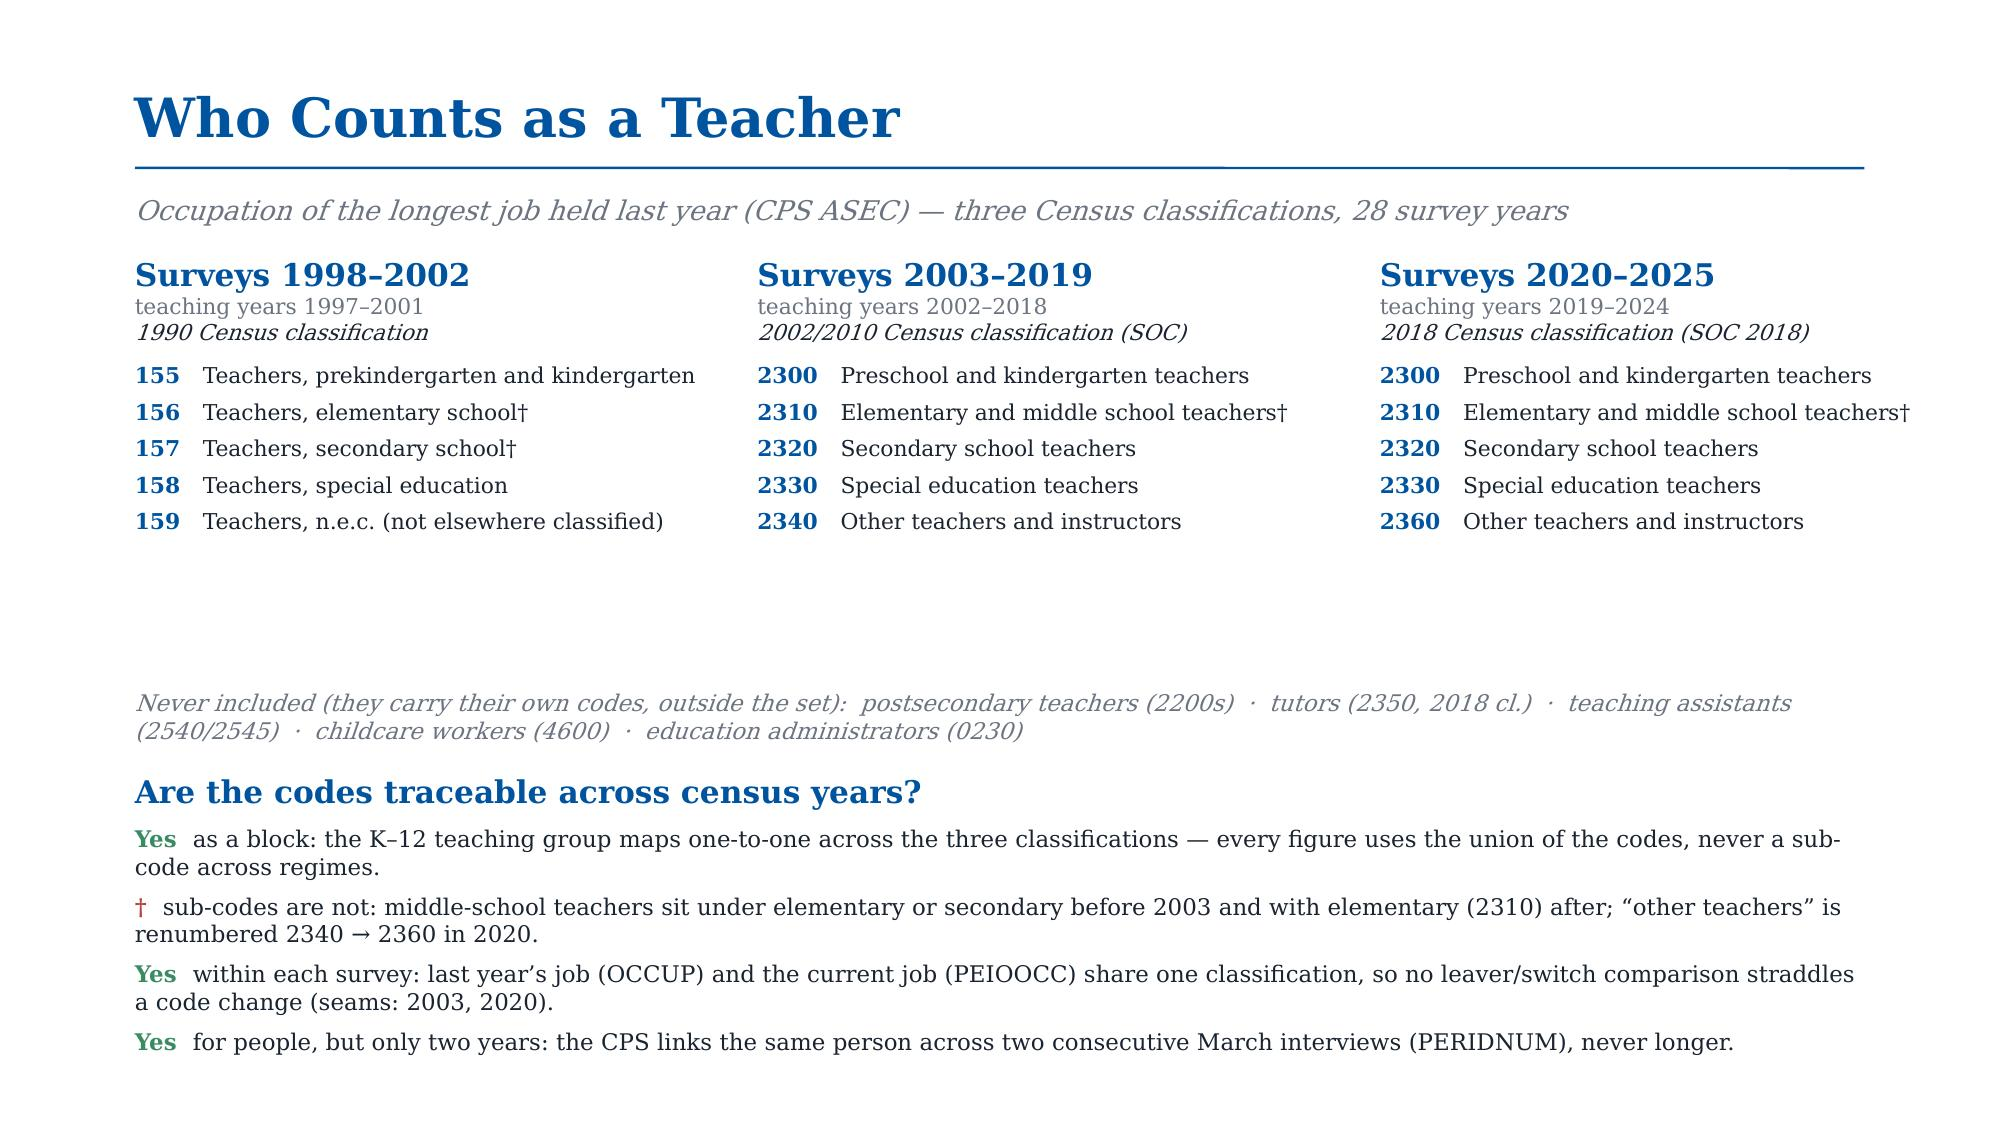
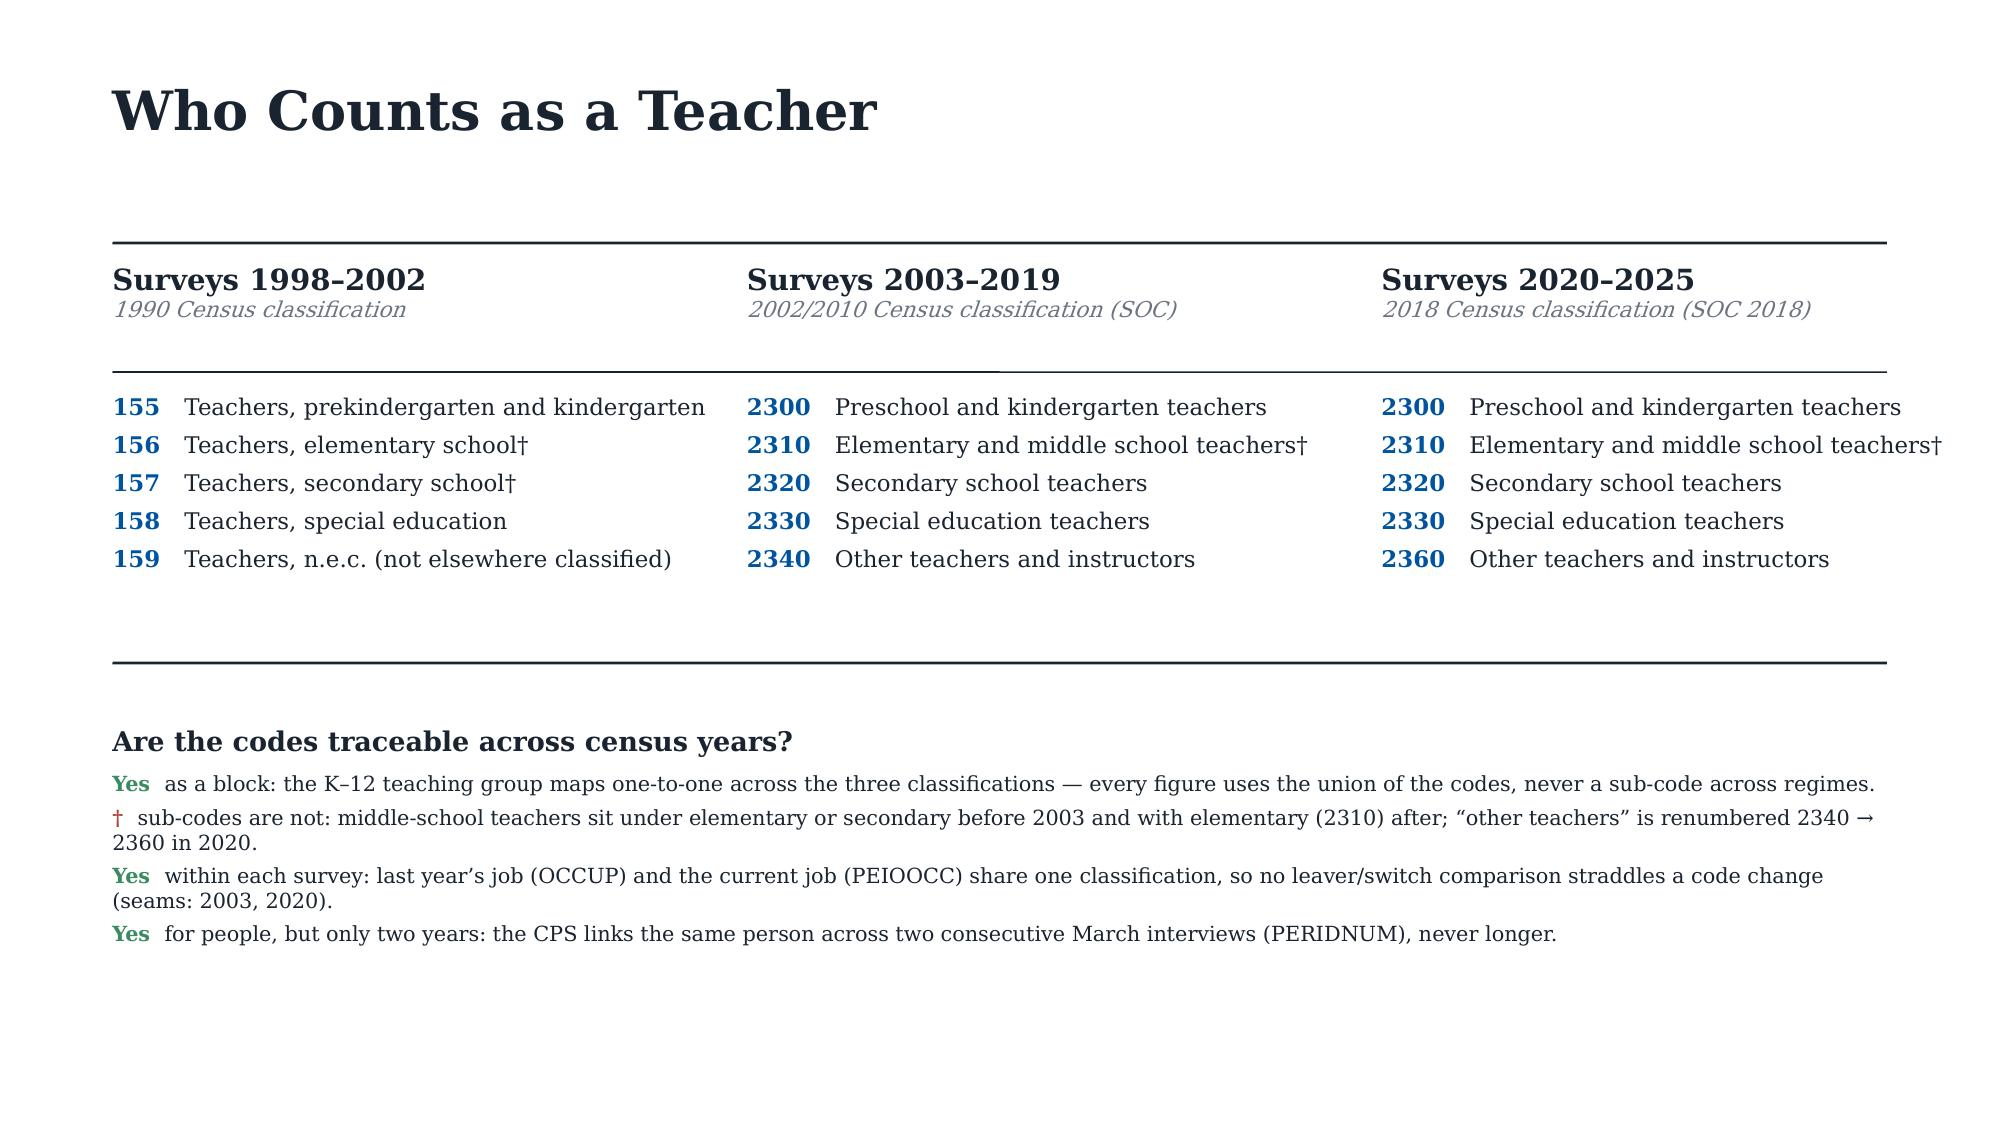
Codes slide: minimalist booktabs-style table
Claude-Session: https://claude.ai/code/session_01DNzQPDcr3zfLTraMHUHqUn

diff --git a/replication/deck_figures/codes_slide_deck.js b/replication/deck_figures/codes_slide_deck.js
@@ -1,75 +1,74 @@
-// Codes slide in the house deck style (Garamond, #00549F title + rule).
+// Codes slide, minimalist LaTeX-table (booktabs) style, Garamond.
 const pptxgen = require("pptxgenjs");
 const pres = new pptxgen();
 pres.layout = "LAYOUT_WIDE";
 
 const BLUE = "00549F", INK = "1A2430", MUT = "6B7480", RED = "B5443C", GREEN = "3A8A62";
 const GARA = "Garamond";
+const L = 0.75, W = 11.83;           // left margin, table width
 const s = pres.addSlide();
 s.background = { color: "FFFFFF" };
 
-// Title + rule, copied from the deck's geometry (x 0.9", y 0.5", rule at 1.12")
 s.addText("Who Counts as a Teacher", {
-  x: 0.9, y: 0.5, w: 11.5, h: 0.55, margin: 0, align: "left", valign: "middle",
-  fontFace: GARA, fontSize: 26, bold: true, color: BLUE,
+  x: L, y: 0.45, w: W, h: 0.55, margin: 0, align: "left", valign: "middle",
+  fontFace: GARA, fontSize: 26, bold: true, color: INK,
 });
-s.addShape(pres.ShapeType.line, {
-  x: 0.9, y: 1.12, w: 11.53, h: 0, line: { color: BLUE, width: 1.2 },
-});
-s.addText(
-  "Occupation of the longest job held last year (CPS ASEC) — three Census classifications, 28 survey years",
-  { x: 0.9, y: 1.22, w: 11.5, h: 0.35, margin: 0, align: "left",
-    fontFace: GARA, fontSize: 13, italic: true, color: MUT });
 
-const COLS = [
-  { x: 0.9,  yrs: "Surveys 1998–2002", cal: "teaching years 1997–2001",
-    cls: "1990 Census classification",
-    rows: [["155", "Teachers, prekindergarten and kindergarten"],
-           ["156", "Teachers, elementary school†"],
-           ["157", "Teachers, secondary school†"],
-           ["158", "Teachers, special education"],
-           ["159", "Teachers, n.e.c. (not elsewhere classified)"]] },
-  { x: 5.05, yrs: "Surveys 2003–2019", cal: "teaching years 2002–2018",
-    cls: "2002/2010 Census classification (SOC)",
-    rows: [["2300", "Preschool and kindergarten teachers"],
-           ["2310", "Elementary and middle school teachers†"],
-           ["2320", "Secondary school teachers"],
-           ["2330", "Special education teachers"],
-           ["2340", "Other teachers and instructors"]] },
-  { x: 9.2,  yrs: "Surveys 2020–2025", cal: "teaching years 2019–2024",
-    cls: "2018 Census classification (SOC 2018)",
-    rows: [["2300", "Preschool and kindergarten teachers"],
-           ["2310", "Elementary and middle school teachers†"],
-           ["2320", "Secondary school teachers"],
-           ["2330", "Special education teachers"],
-           ["2360", "Other teachers and instructors"]] },
+const rule = (y, wpt) => s.addShape(pres.ShapeType.line, {
+  x: L, y: y, w: W, h: 0, line: { color: INK, width: wpt },
+});
+
+// ---- booktabs table ----
+rule(1.62, 1.4);                                        // \toprule
+
+const XS = [L, L + 4.23, L + 8.46];
+const HEADS = [
+  ["Surveys 1998–2002", "1990 Census classification"],
+  ["Surveys 2003–2019", "2002/2010 Census classification (SOC)"],
+  ["Surveys 2020–2025", "2018 Census classification (SOC 2018)"],
 ];
-
-for (const c of COLS) {
-  const runs = [
-    { text: c.yrs, options: { fontFace: GARA, fontSize: 15, bold: true, color: BLUE, breakLine: true } },
-    { text: c.cal, options: { fontFace: GARA, fontSize: 10.5, color: MUT, breakLine: true } },
-    { text: c.cls, options: { fontFace: GARA, fontSize: 10.5, italic: true, color: INK, breakLine: true, paraSpaceAfter: 8 } },
-  ];
-  for (const [code, lab] of c.rows) {
-    runs.push({ text: code + "   ", options: { fontFace: GARA, fontSize: 10.5, bold: true, color: BLUE } });
-    runs.push({ text: lab, options: { fontFace: GARA, fontSize: 10.5, color: INK, breakLine: true, paraSpaceAfter: 5 } });
-  }
-  s.addText(runs, { x: c.x, y: 1.7, w: 4.0, h: 2.6, margin: 0, align: "left", valign: "top" });
+for (let i = 0; i < 3; i++) {
+  s.addText([
+    { text: HEADS[i][0], options: { fontFace: GARA, fontSize: 14, bold: true, color: INK, breakLine: true } },
+    { text: HEADS[i][1], options: { fontFace: GARA, fontSize: 10.5, italic: true, color: MUT } },
+  ], { x: XS[i], y: 1.74, w: 4.0, h: 0.62, margin: 0, align: "left", valign: "top" });
 }
 
-s.addText(
-  "Never included (they carry their own codes, outside the set):  postsecondary teachers (2200s)  ·  " +
-  "tutors (2350, 2018 cl.)  ·  teaching assistants (2540/2545)  ·  childcare workers (4600)  ·  " +
-  "education administrators (0230)",
-  { x: 0.9, y: 4.5, w: 11.5, h: 0.55, margin: 0, align: "left",
-    fontFace: GARA, fontSize: 11, italic: true, color: MUT });
+rule(2.48, 0.75);                                       // \midrule
 
+const ROWS = [
+  [["155", "Teachers, prekindergarten and kindergarten"],
+   ["156", "Teachers, elementary school†"],
+   ["157", "Teachers, secondary school†"],
+   ["158", "Teachers, special education"],
+   ["159", "Teachers, n.e.c. (not elsewhere classified)"]],
+  [["2300", "Preschool and kindergarten teachers"],
+   ["2310", "Elementary and middle school teachers†"],
+   ["2320", "Secondary school teachers"],
+   ["2330", "Special education teachers"],
+   ["2340", "Other teachers and instructors"]],
+  [["2300", "Preschool and kindergarten teachers"],
+   ["2310", "Elementary and middle school teachers†"],
+   ["2320", "Secondary school teachers"],
+   ["2330", "Special education teachers"],
+   ["2360", "Other teachers and instructors"]],
+];
+for (let i = 0; i < 3; i++) {
+  const runs = [];
+  for (const [code, lab] of ROWS[i]) {
+    runs.push({ text: code + "   ", options: { fontFace: GARA, fontSize: 11, bold: true, color: BLUE } });
+    runs.push({ text: lab, options: { fontFace: GARA, fontSize: 11, color: INK, breakLine: true, paraSpaceAfter: 5 } });
+  }
+  s.addText(runs, { x: XS[i], y: 2.62, w: 4.18, h: 1.75, margin: 0, align: "left", valign: "top" });
+}
+
+rule(4.42, 1.4);                                        // \bottomrule
+
+// ---- notes ----
 s.addText("Are the codes traceable across census years?", {
-  x: 0.9, y: 5.1, w: 11.5, h: 0.35, margin: 0, align: "left",
-  fontFace: GARA, fontSize: 15, bold: true, color: BLUE,
+  x: L, y: 4.78, w: W, h: 0.32, margin: 0, align: "left",
+  fontFace: GARA, fontSize: 13, bold: true, color: INK,
 });
-
 const NOTES = [
   ["Yes", GREEN, "as a block: the K–12 teaching group maps one-to-one across the three classifications — every figure uses the union of the codes, never a sub-code across regimes."],
   ["†", RED, "sub-codes are not: middle-school teachers sit under elementary or secondary before 2003 and with elementary (2310) after; “other teachers” is renumbered 2340 → 2360 in 2020."],
@@ -78,9 +77,9 @@ const NOTES = [
 ];
 const nruns = [];
 for (const [mark, mc, txt] of NOTES) {
-  nruns.push({ text: mark + "  ", options: { fontFace: GARA, fontSize: 11, bold: true, color: mc } });
-  nruns.push({ text: txt, options: { fontFace: GARA, fontSize: 11, color: INK, breakLine: true, paraSpaceAfter: 6 } });
+  nruns.push({ text: mark + "  ", options: { fontFace: GARA, fontSize: 10, bold: true, color: mc } });
+  nruns.push({ text: txt, options: { fontFace: GARA, fontSize: 10, color: INK, breakLine: true, paraSpaceAfter: 4 } });
 }
-s.addText(nruns, { x: 0.9, y: 5.5, w: 11.5, h: 1.9, margin: 0, align: "left", valign: "top" });
+s.addText(nruns, { x: L, y: 5.14, w: W, h: 1.3, margin: 0, align: "left", valign: "top" });
 
 pres.writeFile({ fileName: "codes_slide.pptx" }).then(() => console.log("written"));
